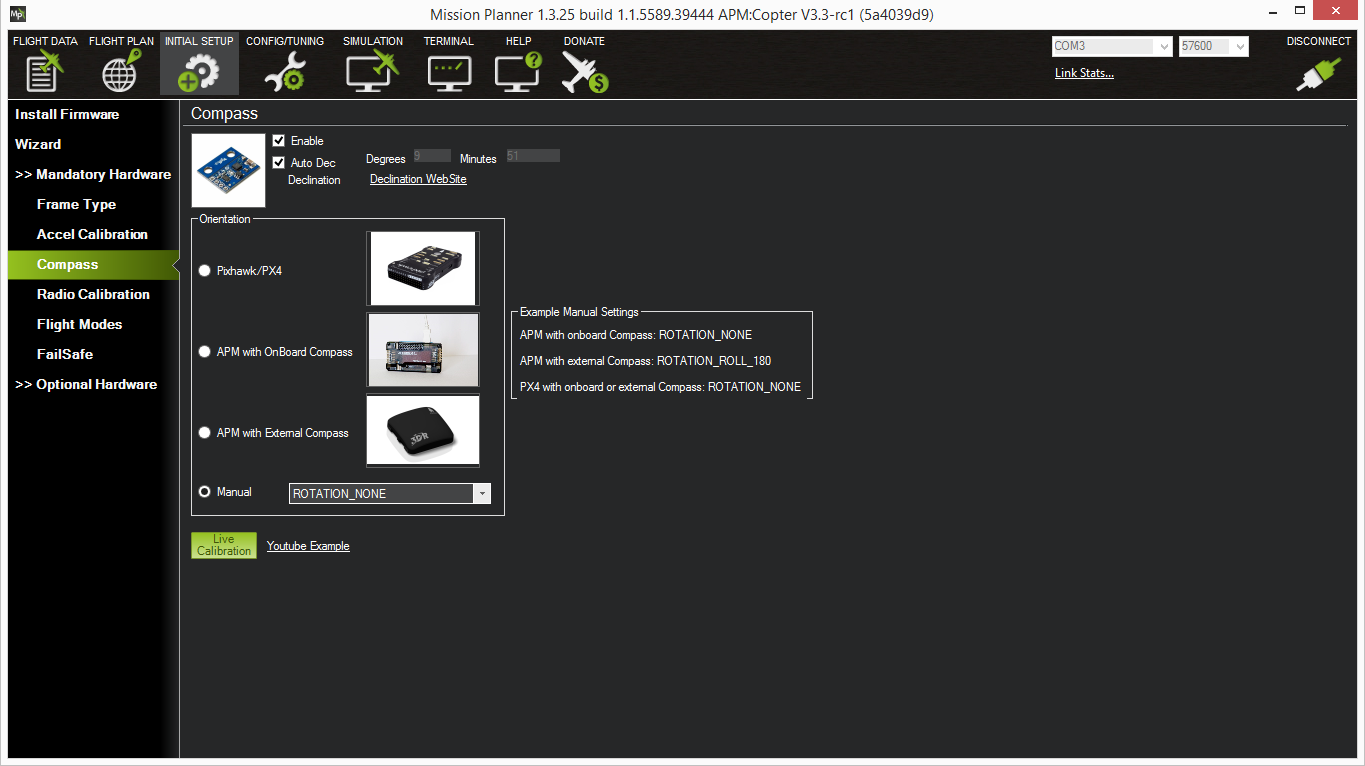
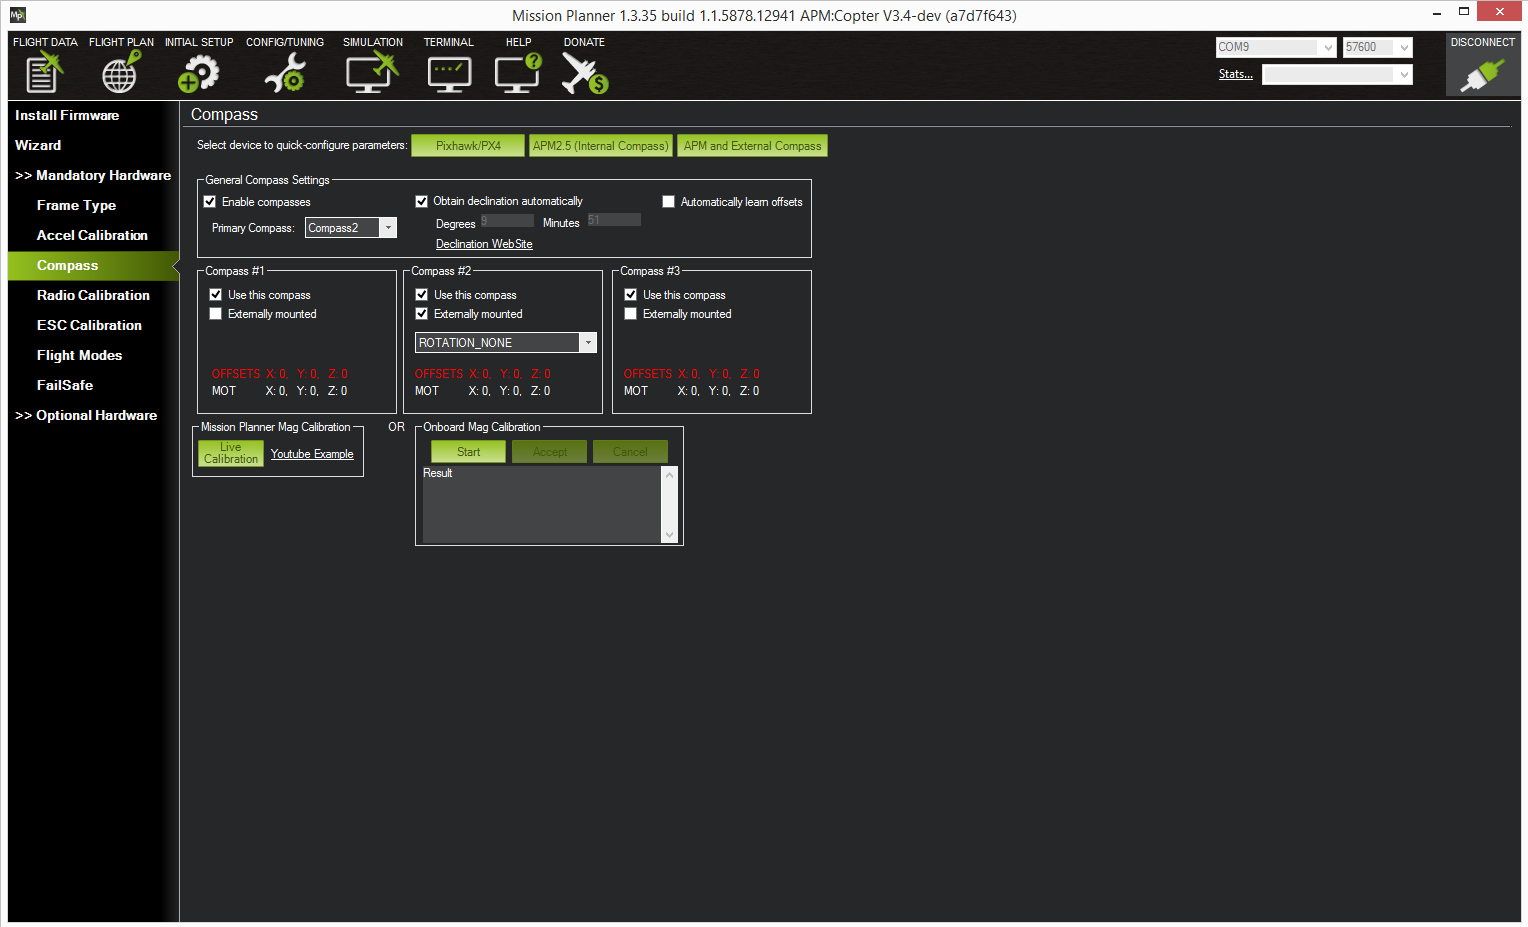
GNSS2: Updated APM setup instructions

Changed region(s): [[0.0, 0.0, 1.0, 1.0]]

diff --git a/0 Products/10 Zubax GNSS 2/Tutorials/10 Using with Pixhawk.md b/0 Products/10 Zubax GNSS 2/Tutorials/10 Using with Pixhawk.md
@@ -24,44 +24,22 @@ custom needs, in which case they should refer to the relevant documentation for 
 
 ## Configuring Zubax GNSS 2
 
-<info>
-If you're using PX4 flight software, Zubax GNSS 2 will be able to auto-configure itself, so this step can be skipped.
-</info>
-
-If you're using APM, the default configuration should be changed manually as follows:
-
-* The parameter `uavcan.node_id` needs to be set manually
-* Possibly, some functionality that is disabled by default needs to be enabled
-(such as the time synchronization master or the air data sensor)
-
-[Connect USB, open CLI](/usb_command_line_interface#How_to_connect), then execute:
-
-```
-cfg set uavcan.node_id 50
-```
-
-This command will set the Node ID to 50.
-You can use any other value as long as it doesn't conflict with other nodes.
-
-Save the configuration into the non-volatile memory and then restart the device to apply new configuration:
-
-```
-cfg save
-reboot
-```
-
-Configuration is complete.
+Zubax GNSS 2 will be able to auto-configure itself upon connection to the vehicle bus.
+However, it may be needed to enable some features that are disabled by default, such as barometer.
+Please [refer to the doc page to learn how to alter configuration parameters](/zubax_gnss_2#Configuration_parameters).
 
 ## Configuring Pixhawk with APM firmware
 
 <info>If you don't know what firmware you're using - you're using APM.</info>
 
-UAVCAN driver is enabled in APM by default, but it is necessary to change some configuration parameters
-to make APM listen to external UAVCAN-connected sensors.
 The following chapters assume that [Mission Planner](http://planner.ardupilot.com/) is installed on the user's computer,
 and that Pixhawk is otherwise properly configured.
 
 Remember that it may be necessary to restart Pixhawk before the changes take full effect.
+
+### Enabling UAVCAN in APM
+
+Open Mission Planner, navigate to the tab `CONFIG/TUNING`, and set the parameter `BRD_CAN_ENABLE` to `2`.
 
 ### GPS
 
@@ -72,14 +50,14 @@ In order to make APM receive measurements from an UAVCAN-interfaced GNSS receive
 ### Compass
 
 In order to make APM receive measurements from an UAVCAN-interfaced compass, open the tab `INITIAL SETUP`,
-then select `Mandatory Hardware` &rarr; `Compass`. On the displayed page:
-
-* Check the checkbox `Enable`.
-* In the `Orientation` frame, select the option `Manual`, `ROTATION_NONE`.
-You may need to select a different rotation if the arrow printed on Zubax GNSS 2 is not aligned with
-vehicle's longitudinal axis.
+then select `Mandatory Hardware` &rarr; `Compass`.
+Find the compass that is marked with the check `Externally mounted`, and make sure that it is selected in
+the drop-down field `Primary Compass`. See the screenshot below for an example.
 
 <img src="mission_planner_compass.png" width=500 title="Enabling external compass via Mission Planner">
+
+You may need to select a different rotation if the arrow printed on Zubax GNSS 2 is not aligned with the
+vehicle's longitudinal axis.
 
 Don't forget to perform compass calibration when done.
 
@@ -119,9 +97,7 @@ otherwise it will fall back to internal barometer.
 
 ## Configuring Pixhawk with PX4 firmware
 
-Set the configuration parameter `UAVCAN_ENABLE` to 2, then reboot.
-
-<info>All other GNSS drivers must be disabled.</info>
+Set the configuration parameter `UAVCAN_ENABLE` to `2` or `3`, then reboot.
 
 Please refer to the [Pixhawk documentation](http://pixhawk.org/firmware/apps/uavcan) for extra info.
 
@@ -132,7 +108,7 @@ Since Zubax GNSS 2 can be powered directly from the bus, the electrical connecti
 1. Connect Zubax GNSS 2 with Pixhawk using the appropriate cable.
 In case you're using a non-redundant CAN interface (which is the only available option for Pixhawk v1),
 only CAN1 must be used, leaving CAN2 empty.
-2. Insert the termination plug into another connector of the used CAN interface on the Zubax GNSS 2.
+2. Terminate the CAN bus using the termination plug.
 
 Now the setup is ready to work.
 
